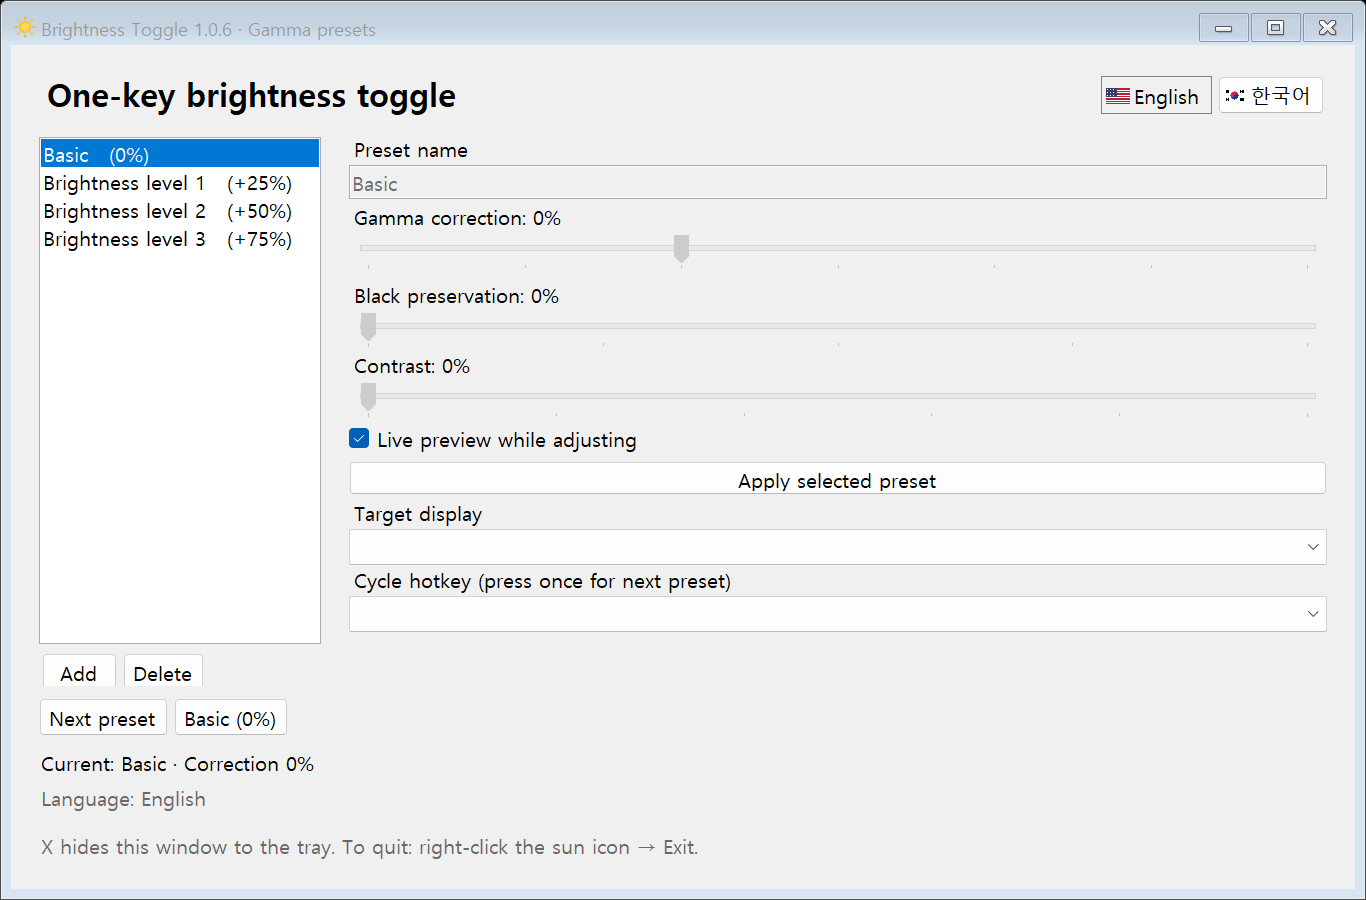
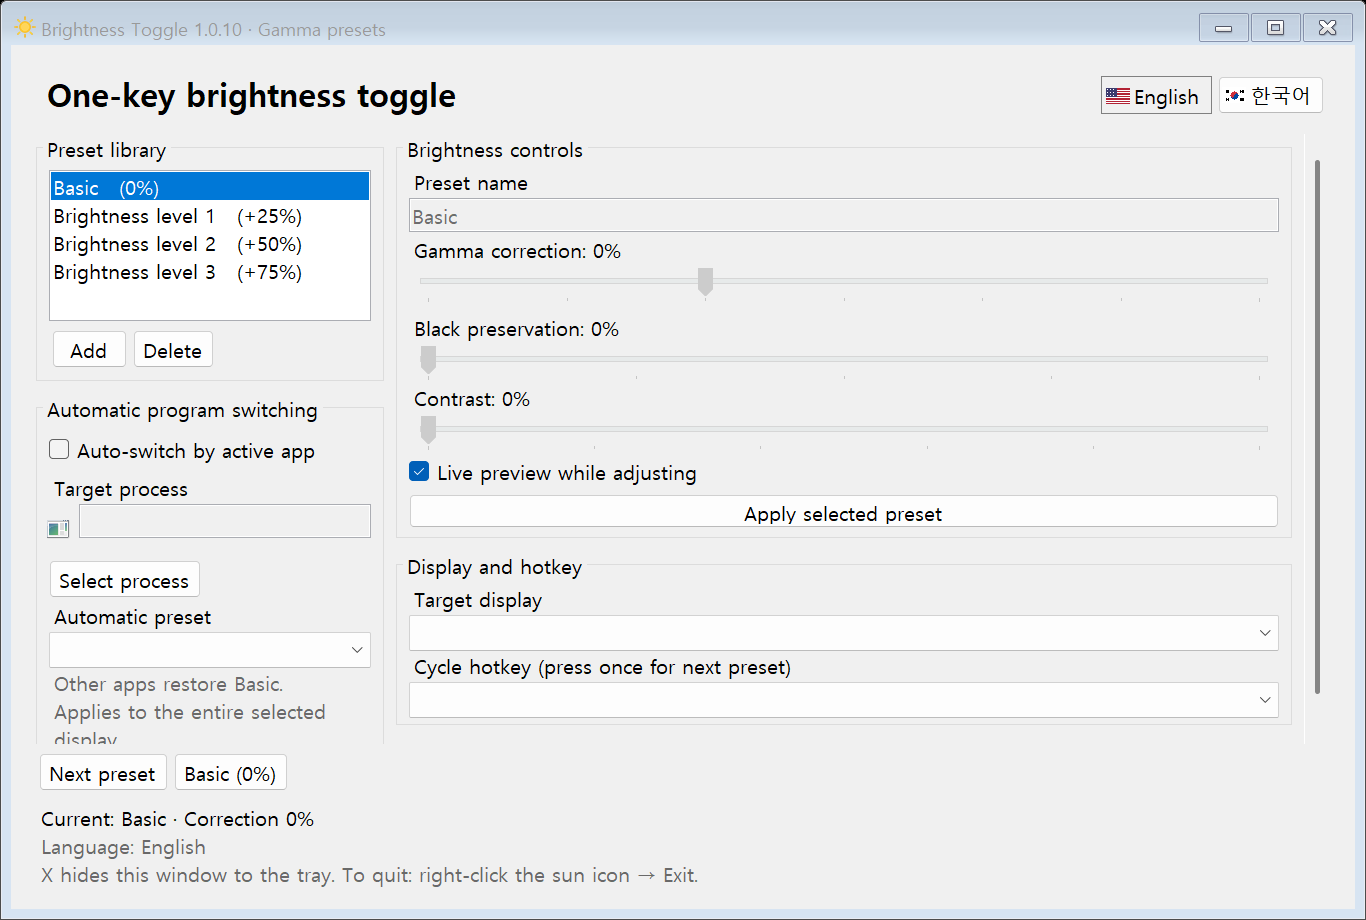
Update Store screenshots, privacy details and 1.0.10 submission status

diff --git a/PRIVACY.md b/PRIVACY.md
@@ -10,11 +10,11 @@ The application does not collect, transmit, sell, or share personal information.
 
 ## Local settings
 
-The application stores preset names, gamma correction amounts, the selected display identifier, and the configured hotkey in a local settings file. These settings remain on your device. Windows may redirect packaged application settings into its per-user package storage.
+The application stores preset names, gamma correction amounts, black preservation and contrast values, the selected display identifier, language, configured hotkey, selected executable name, automatic-switching preference, and automatic preset in a local settings file. These settings remain on your device. Windows may redirect packaged application settings into its per-user package storage.
 
 ## Device access
 
-The application accesses display gamma controls and registers a global preset-switching hotkey. It does not record general keyboard input, read game data, or inject code into games. Original gamma tables are kept in memory to restore the screen on normal exit.
+The application accesses display gamma controls and registers a global preset-switching hotkey. It does not record general keyboard input, read game data, or inject code into games. For the optional active-program feature and process selector, it reads process names, visible window titles, executable paths for icon extraction, and the foreground window locally. Window titles and executable paths are not saved in settings or sent anywhere. Only the executable name you select and its preset are saved locally. It does not inspect game memory. Original gamma tables are kept in memory to restore the screen on normal exit.
 
 ## Deletion and control
 

diff --git a/README.md b/README.md
@@ -152,7 +152,7 @@ Tests use a fake display backend and do not change the real display. They cover 
 
 ## Microsoft Store packaging
 
-[Microsoft Store page](https://apps.microsoft.com/detail/9NWT13R8QZG6) · Product ID: `9NWT13R8QZG6`. Version 1.0.6 was submitted for Store certification on October 28, 2026, with automatic publication after approval. Version **1.0.10** is distributed through GitHub; Store updates follow a separate certification process and may arrive later.
+[Microsoft Store page](https://apps.microsoft.com/detail/9NWT13R8QZG6) · Product ID: `9NWT13R8QZG6`. Version 1.0.6 is published in Store. Version **1.0.10**, including the updated English screenshots and active-program features, was submitted for Store certification on October 28, 2026. It is in preprocessing/certification and will publish automatically after approval. [GitHub 1.0.10](https://github.com/idlepoe/brightness_toggle/releases/tag/v1.0.10) is available now; Store availability of 1.0.10 is not yet confirmed.
 
 ```powershell
 ./scripts/package-msix.ps1
